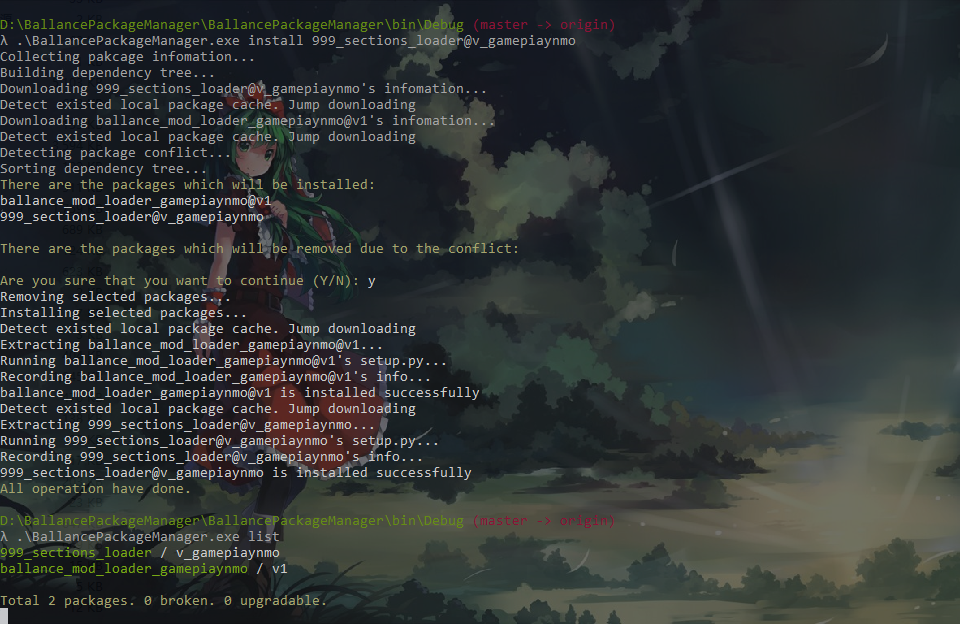
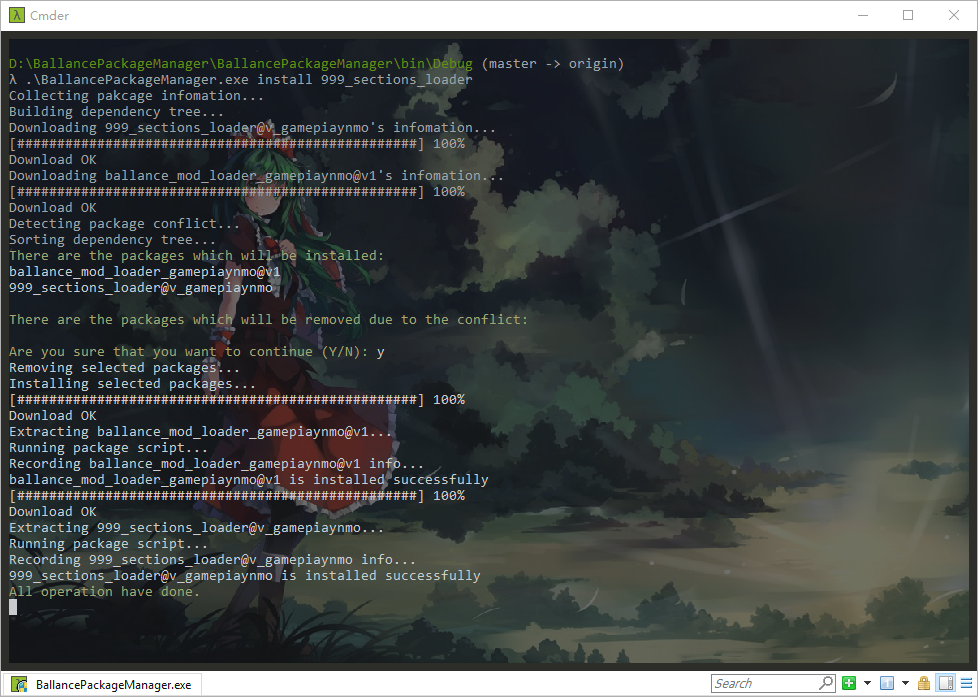
Miscellaneous fix
- Remove usless I18N item.
- Replace screenshot.png
- Rename script example folder's name

diff --git a/BallancePackageManager/I18N.cs b/BallancePackageManager/I18N.cs
@@ -144,7 +144,6 @@ namespace BallancePackageManager {
 
             //script invoker
             {"ScriptInvoker_NoScriptFile", "No script file"},
-            {"ScriptInvoker_UnsupportedScript", "Unsupported script file"},
             {"ScriptInvoker_NoMethod", "No matched method"},
             {"ScriptInvoker_InvokeError", "Invoke error"},
             {"ScriptInvoker_CompileError", "Compile error\nDetail:\n{0}"},
@@ -262,7 +261,6 @@ namespace BallancePackageManager {
 
             //script invoker
             {"ScriptInvoker_NoScriptFile", "没有脚本文件"},
-            {"ScriptInvoker_UnsupportedScript", "不支持的脚本文件"},
             {"ScriptInvoker_NoMethod", "没有匹配的函数"},
             {"ScriptInvoker_InvokeError", "调用错误"},
             {"ScriptInvoker_CompileError", "编译错误\n详情：\n{0}"},
